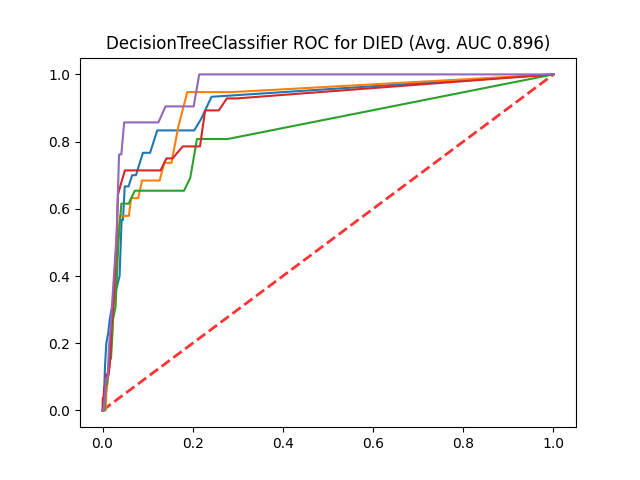
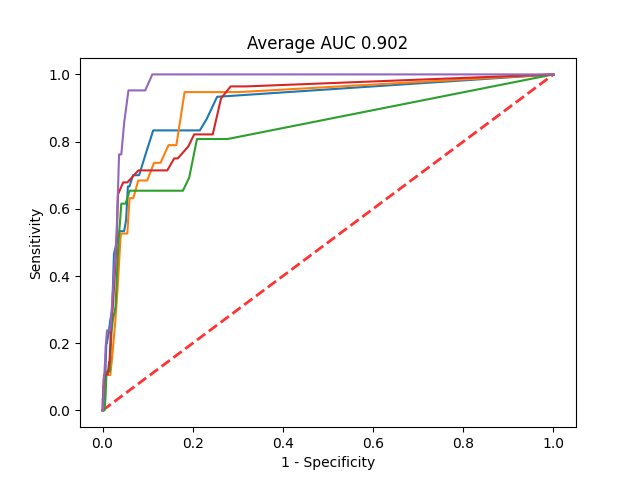
Update roc curve formatting

diff --git a/results/README.md b/results/README.md
@@ -2,40 +2,40 @@
 
 ## Reveiver Operating Characteristic Curves (Laparoscopic Dataset)
 
-### Predicting DIED
+### Predicting Inpatient Mortality
 
-| Decision Tree      | Random Forest | Logistic Regression     | Neural Network |
-| :---        |    :---  |          :--- |  :--- |
-| ![ROC Curve](./lap_DecisionTreeClassifier_DIED.png)      | ![ROC Curve](./lap_RandomForestClassifier_DIED.png)       | ![ROC Curve](./lap_LogisticRegression_DIED.png)  | ![ROC Curve](./lap_NeuralNetBinaryClassifier_DIED.png) |
+| Decision Tree      | Random Forest   | Neural Network |
+| :---        |    :---   |  :--- |
+| ![ROC Curve](./lap_DecisionTreeClassifier_DIED.png)      | ![ROC Curve](./lap_RandomForestClassifier_DIED.png)       | ![ROC Curve](./lap_NeuralNetBinaryClassifier_DIED.png)  |
 
-### Predicting LOS
+### Predicting Length of Stay
 
-| Decision Tree      | Random Forest | Logistic Regression     | Neural Network                                        |
-| :---        |    :---   |          :--- |:------------------------------------------------------|
-| ![ROC Curve](./lap_DecisionTreeClassifier_LOS.png)      | ![ROC Curve](./lap_RandomForestClassifier_LOS.png)       | ![ROC Curve](./lap_LogisticRegression_LOS.png)  | ![ROC Curve](./lap_NeuralNetBinaryClassifier_LOS.png) |
+| Decision Tree      | Random Forest    | Neural Network                                       |
+| :---        |    :---    |:-----------------------------------------------------|
+| ![ROC Curve](./lap_DecisionTreeClassifier_LOS.png)      | ![ROC Curve](./lap_RandomForestClassifier_LOS.png)       | ![ROC Curve](./lap_NeuralNetBinaryClassifier_LOS.png)  |
 
-### Predicting anastomotic_leak
+### Predicting Anastomotic Leak
 
-| Decision Tree      | Random Forest | Logistic Regression     | Neural Network                                                     |
-| :---        |    :---   |          :--- |:-------------------------------------------------------------------|
-| ![ROC Curve](./lap_DecisionTreeClassifier_anastomotic_leak.png)      | ![ROC Curve](./lap_RandomForestClassifier_anastomotic_leak.png)       | ![ROC Curve](./lap_LogisticRegression_anastomotic_leak.png)  | ![ROC Curve](./lap_NeuralNetBinaryClassifier_anastomotic_leak.png) |
+| Decision Tree      | Random Forest                                                        | Neural Network                                                     |
+| :---        |:---------------------------------------------------------------------|:-------------------------------------------------------------------|
+| ![ROC Curve](./lap_DecisionTreeClassifier_anastomotic_leak.png)      | ![ROC Curve](./lap_RandomForestClassifier_anastomotic_leak.png)      | ![ROC Curve](./lap_NeuralNetBinaryClassifier_anastomotic_leak.png) |
 
 ## Reveiver Operating Characteristic Curves (Open Dataset)
 
-### Predicting DIED
+### Predicting Inpatient Mortality
 
-| Decision Tree      | Random Forest | Logistic Regression     | Neural Network                                          |
-| :---        |    :---  |          :--- |:--------------------------------------------------------|
-| ![ROC Curve](./open_DecisionTreeClassifier_DIED.png)      | ![ROC Curve](./open_RandomForestClassifier_DIED.png)       | ![ROC Curve](./open_LogisticRegression_DIED.png)  | ![ROC Curve](./open_NeuralNetBinaryClassifier_DIED.png) |
+| Decision Tree      | Random Forest     | Neural Network                                          |
+| :---        |    :---  |:--------------------------------------------------------|
+| ![ROC Curve](./open_DecisionTreeClassifier_DIED.png)      | ![ROC Curve](./open_RandomForestClassifier_DIED.png)       | ![ROC Curve](./open_NeuralNetBinaryClassifier_DIED.png) |
 
-### Predicting LOS
+### Predicting Length of Stay
 
-| Decision Tree      | Random Forest | Logistic Regression     | Neural Network                                         |
-| :---        |    :---   |          :--- |:-------------------------------------------------------|
-| ![ROC Curve](./open_DecisionTreeClassifier_LOS.png)      | ![ROC Curve](./open_RandomForestClassifier_LOS.png)       | ![ROC Curve](./open_LogisticRegression_LOS.png)  | ![ROC Curve](./open_NeuralNetBinaryClassifier_LOS.png) |
+| Decision Tree      | Random Forest                                            | Neural Network                                  |
+| :---        |:---------------------------------------------------------|:------------------------------------------------|
+| ![ROC Curve](./open_DecisionTreeClassifier_LOS.png)      | ![ROC Curve](./open_RandomForestClassifier_LOS.png)      | ![ROC Curve](./open_NeuralNetBinaryClassifier_LOS.png) |
 
-### Predicting anastomotic_leak
+### Predicting Anastomotic Leak
 
-| Decision Tree      | Random Forest | Logistic Regression     | Neural Network                                                      |
-| :---        |    :---   |          :--- |:--------------------------------------------------------------------|
-| ![ROC Curve](./open_DecisionTreeClassifier_anastomotic_leak.png)      | ![ROC Curve](./open_RandomForestClassifier_anastomotic_leak.png)       | ![ROC Curve](./open_LogisticRegression_anastomotic_leak.png)  | ![ROC Curve](./open_NeuralNetBinaryClassifier_anastomotic_leak.png) |
+| Decision Tree      | Random Forest    | Neural Network                                                      |
+| :---        |    :---  |:--------------------------------------------------------------------|
+| ![ROC Curve](./open_DecisionTreeClassifier_anastomotic_leak.png)      | ![ROC Curve](./open_RandomForestClassifier_anastomotic_leak.png)       | ![ROC Curve](./open_NeuralNetBinaryClassifier_anastomotic_leak.png)  | ![ROC Curve](./open_NeuralNetBinaryClassifier_anastomotic_leak.png) |
